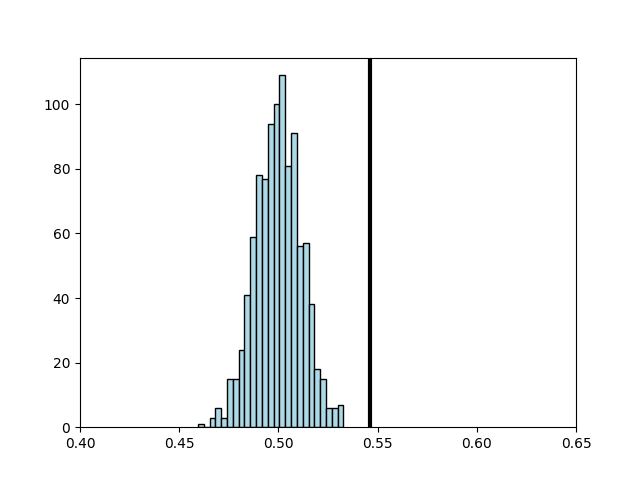
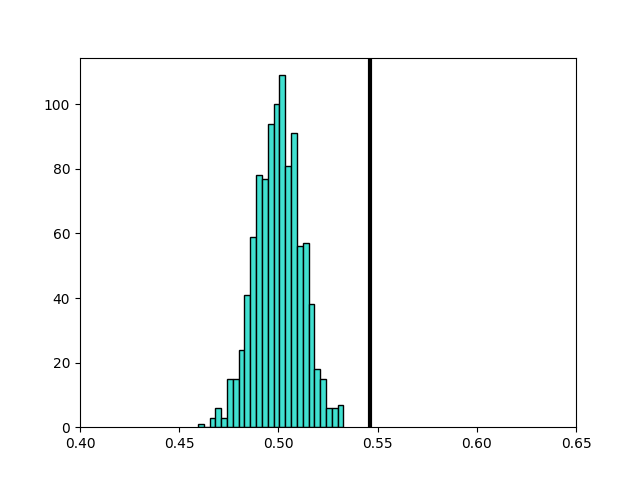
updated plot

Changed region(s): [[0.3125, 0.1562, 0.5625, 0.9062]]

diff --git a/braincode/mvpa.py b/braincode/mvpa.py
@@ -93,7 +93,7 @@ class MVPA:
         np.save(fname, self.null)
 
     def _plot_results(self):
-        plt.hist(self.null, bins=25, color="lightblue", edgecolor="black")
+        plt.hist(self.null, bins=25, color="turquoise", edgecolor="black")
         plt.axvline(self.score, color="black", linewidth=3)
         plt.xlim(
             {
